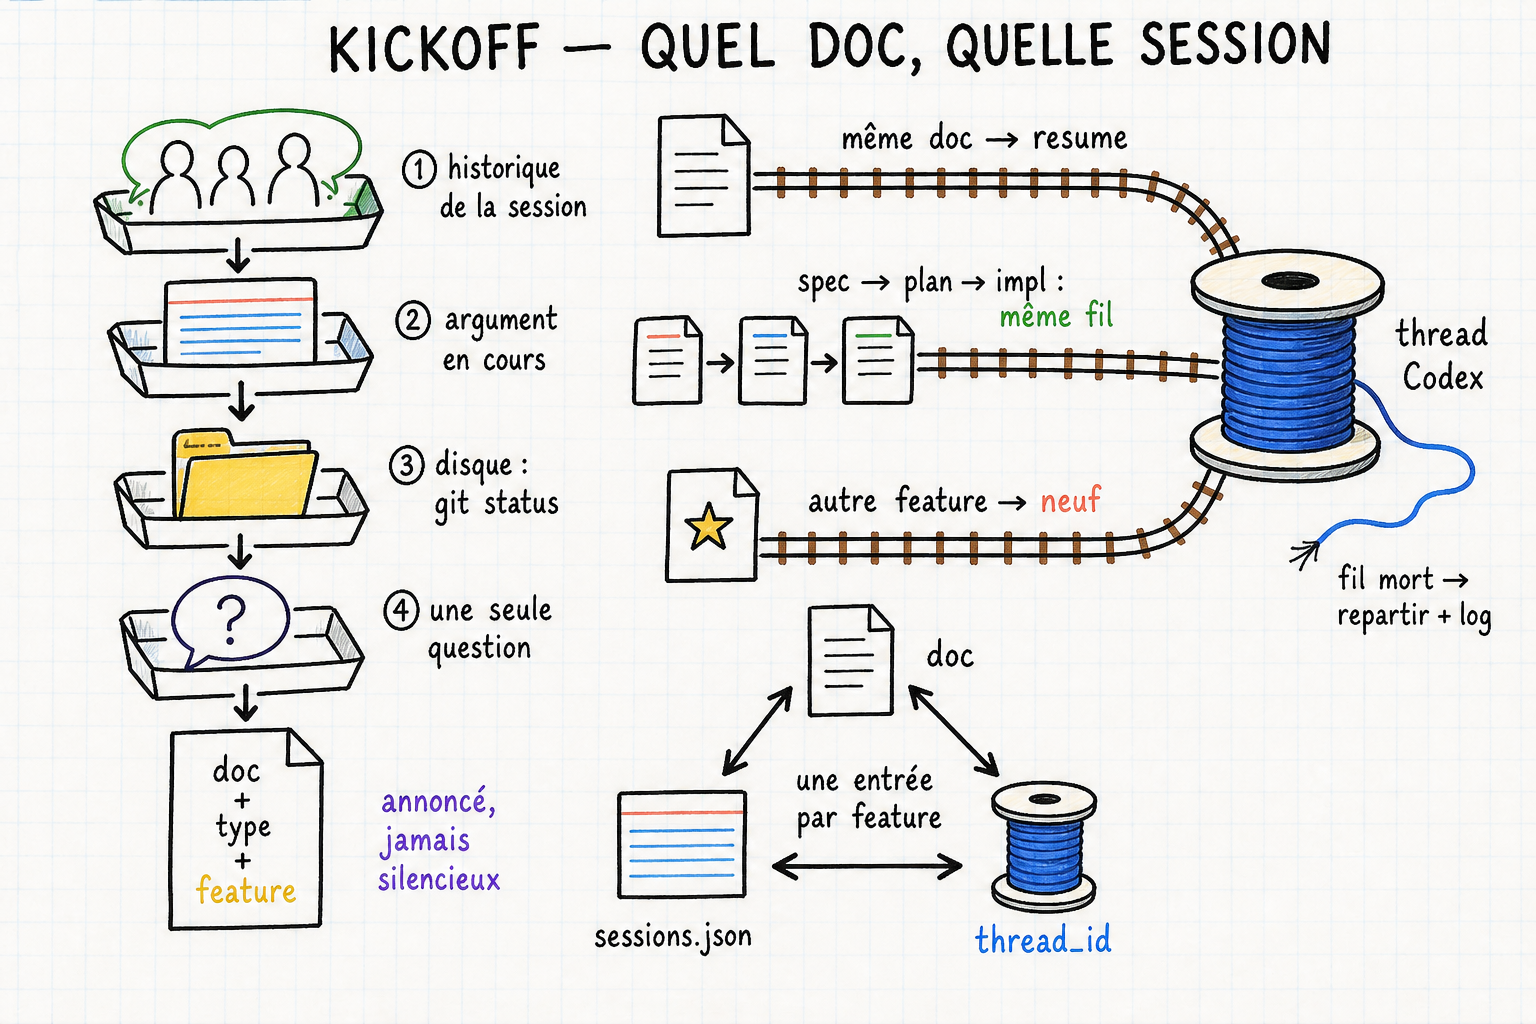
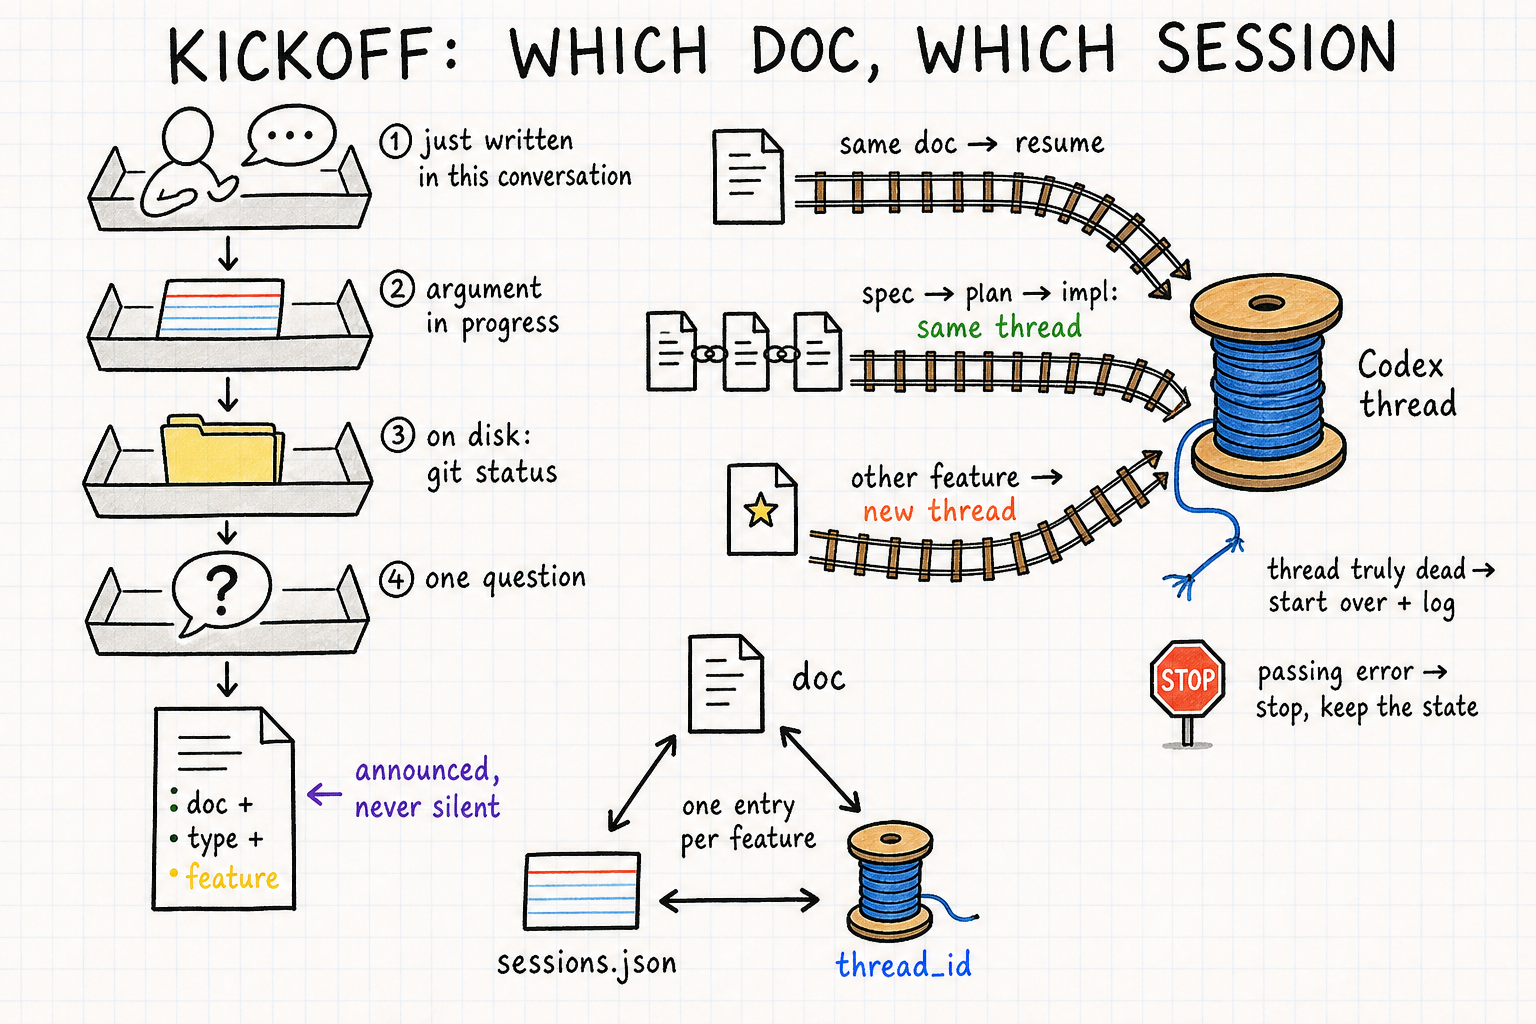
docs: English README, French README-fr, plates regenerated in English to match the current skill
- README.md is now English; the French walkthrough moves to README-fr.md.
- All four diagrams redrawn (gpt-image-2, same hand from the architecture
  plate) with English lettering, reflecting the 2026-09-02 rules: state
  written only after a successful round, transient errors keep the state,
  doc hash check before resubmission, test evidence supplied by Claude,
  10-min inactivity guard with 45-min cap, premise check and
  production-projection rule in the ratchet.
- Scenarios (*-body.txt) rewritten in English; STYLE.txt added so the
  plates can be regenerated from this repo alone.

diff --git a/README.md b/README.md
@@ -1,71 +1,65 @@
 # claude-skills
 
-Skills Claude Code personnelles. Une seule pour l'instant : **codex-review**.
+Personal Claude Code skills. One so far: **codex-review**. Version française : [README-fr.md](README-fr.md).
 
-## codex-review — la boucle de review adversariale
+## codex-review — the adversarial review loop
 
-Deux modèles, un document, une dispute bornée. Claude écrit (spec, plan, puis code) et arbitre ; OpenAI Codex critique en lecture seule, round après round, jusqu'à `VERDICT: APPROVED` ou le plafond de rounds. La conversation avec le critique survit d'une invocation à l'autre : on corrige le document demain, on relance, le reviewer reprend avec toutes ses critiques en tête au lieu de tout redécouvrir.
+Two models, one document, a bounded argument. Claude writes (spec, plan, then code) and referees; OpenAI Codex critiques read-only, round after round, until `VERDICT: APPROVED` or the round cap. The conversation with the critic survives across invocations: fix the document tomorrow, run again, and the reviewer picks up with all its earlier critiques in mind instead of rediscovering everything.
 
-La skill s'utilise après un brainstorming/plan superpowers (`/codex-review` sans argument trouve le document tout seul) et couvre trois étages d'une même feature : la **spec**, le **plan**, puis l'**implémentation** (le diff relu contre le plan, idéalement avant commit).
+The skill runs after a superpowers brainstorming/plan (`/codex-review` with no argument finds the document by itself) and covers three stages of the same feature: the **spec**, the **plan**, then the **implementation** (the diff reviewed against the plan, ideally before commit).
 
-Quatre schémas racontent le fonctionnement, du survol au détail.
+Four diagrams tell the story, from the overview down to the details.
 
-### Niveau 1 — l'architecture
+### Level 1 — the architecture
 
-![Architecture de la skill](codex-review/architecture.png)
+![Architecture of the skill](codex-review/architecture.png)
 
-Tout y est, de gauche à droite :
+Everything is there, left to right:
 
-- **La colonne des trois étages.** Spec, plan, implémentation (le diff) — une feature descend ces trois marches, et l'annotation le dit : *une feature, une session*. Le même fil Codex accompagne les trois étages, si bien que le reviewer qui a attaqué la spec puis le plan finit par juger le code en connaissance de cause.
-- **La boucle centrale.** Claude (auteur et arbitre) envoie *doc + prompt* ; Codex (un terminal, critique en lecture seule) renvoie un *VERDICT* : `APPROVED` ou `REVISE`. Le compteur *MAX ROUNDS* borne la dispute — elle se termine toujours.
-- **Le cliquet de simplicité** sur le chemin du retour : chaque correction acceptée passe ce filtre avant de toucher le document (détaillé planche 4).
-- **L'état persistant**, à droite : `sessions.json` (le fil Codex de chaque feature, relié par son *thread_id*), `review-log.md` (tout le débat, verbatim) et `stream.jsonl` (la progression en direct pendant qu'un round tourne).
-- **La signature humaine**, en bas : rien ne s'implémente sans le oui final de l'utilisateur.
+- **The column of three stages.** Spec, plan, implementation (the diff). One feature walks down these three steps, and the annotation says it: *one feature, one session*. The same Codex thread follows all three stages, so the reviewer that attacked the spec and then the plan ends up judging the code with full context.
+- **The central loop.** Claude (author and referee) sends *doc + prompt*; Codex (a terminal, read-only critic) returns a *VERDICT*: `APPROVED` or `REVISE`. The *MAX ROUNDS* counter bounds the argument. It always ends.
+- **The simplicity ratchet** on the way back: every accepted fix passes this filter before touching the document (detailed in plate 4).
+- **The persistent state**, on the right: `sessions.json` (each feature's Codex thread, linked by its *thread_id* and *written only after a successful round*, never at launch), `review-log.md` (the whole debate, verbatim) and `stream.jsonl` (live progress while a round runs).
+- **The human sign-off**, at the bottom: nothing gets implemented without the user's final yes.
 
-### Niveau 2a — le kickoff : quel doc, quelle session
+### Level 2a — the kickoff: which doc, which session
 
-![Kickoff — choix du doc et de la session](codex-review/architecture-kickoff.png)
+![Kickoff — choosing the doc and the session](codex-review/architecture-kickoff.png)
 
-Ce qui se passe avant le premier round.
+What happens before the first round.
 
-À gauche, **l'entonnoir à quatre plateaux** : invoquée sans argument, la skill devine le document en essayant quatre sources dans l'ordre — ① le document qu'on vient d'écrire dans la conversation, ② un argument en cours dans `sessions.json`, ③ le disque (`git status`, le doc le plus récent), ④ sinon une seule question. Le résultat (*doc + type + feature*) est toujours annoncé, jamais silencieux : l'utilisateur peut corriger avant de brûler un round.
+On the left, **the four-tray funnel**: invoked with no argument, the skill guesses the document by trying four sources in order: ① the document just written in the conversation, ② an argument in progress in `sessions.json`, ③ the disk (`git status`, the most recent doc), ④ otherwise a single question. The result (*doc + type + feature*) is always announced, never silent: the user can correct it before a round is spent.
 
-À droite, **les trois rails vers la bobine** (le fil Codex) : même doc → on reprend le fil ; spec → plan → impl d'une même feature → toujours le même fil ; autre feature → fil neuf. Le fil cassé se traite avec prudence : seul un fil définitivement mort justifie de repartir (une erreur passagère d'authentification ne détruit jamais une session valide — nuance ajoutée après la review, le schéma simplifie).
+On the right, **three tracks into the spool** (the Codex thread): same doc → resume the thread; spec → plan → impl of one feature → still the same thread; another feature → a new thread. A broken thread is handled with care: only a thread that is *truly dead* justifies starting over (logged), while a *passing error* (auth, model, timeout) stops the run and leaves the state untouched.
 
-En bas, **le triangle de couplage** : le document, `sessions.json` et le *thread_id* se tiennent — une entrée par feature, pas de doublon.
+At the bottom, **the coupling triangle**: the document, `sessions.json` and the *thread_id* hold together. One entry per feature, no duplicates.
 
-### Niveau 2b — un round, concrètement
+### Level 2b — one round, up close
 
-![Un round, concrètement](codex-review/architecture-round.png)
+![One round, up close](codex-review/architecture-round.png)
 
-L'anatomie d'un aller-retour.
+The anatomy of one round trip.
 
-1. **La consigne.** Claude écrit le prompt de review, qui impose la discipline des critiques : chaque trouvaille est étiquetée *ça casse* (avec le scénario de casse) ou *trop compliqué* — chaque critique doit prouver son coût.
-2. **L'enclos en lecture seule.** Codex travaille enfermé : son shell et ses accès fichiers ne peuvent rien écrire (*jamais d'écriture* — garantie qui couvre les outils intégrés de Codex ; les intégrations externes type MCP sont vérifiées à part au kickoff).
-3. **Le ticker.** L'activité sort en continu sur `stream.jsonl` — démarré, il lit les fichiers, terminé — qu'on regarde toutes les 30-60 s, avec un garde d'inactivité (10 minutes sans événement) et un plafond dur de 45 minutes : un round qui pend échoue bruyamment au lieu de traîner en silence.
-4. **Le verdict.** `APPROVED (validé)` ou `REVISE (à revoir)`. Sur REVISE, Claude corrige et repart — même conversation. Tout le débat s'accumule dans `review-log.md`, en un fichier par feature.
+1. **The brief.** Claude writes the review prompt, which imposes the critique discipline: every finding is tagged *it breaks* (with the failure scenario) or *too complicated*. Every critique must prove its cost. Before the brief leaves, a stamp asks *doc really changed? hash check*: the document's hash is compared with the previous round's, and an unchanged document is never resubmitted (two real rounds were once burnt that way after a failed edit script).
+2. **The read-only pen.** Codex works locked in: its shell and file access can write nothing, temp directories included. That is also why it cannot run the test suite itself. In implementation mode the *test results come from Claude*, pasted into the prompt.
+3. **The ticker.** Activity streams continuously to `stream.jsonl` (started, reading files, done), watched every 30-60 s. The guard is an inactivity guard, not a wall clock: *10 minutes of silence* on the stream stops the round, with a hard cap of 45 minutes. Real first rounds on a large document take 14 to 18 minutes.
+4. **The verdict.** `APPROVED (accepted)` or `REVISE (fix and resubmit)`. On REVISE, Claude fixes and goes again, same conversation. The whole debate accumulates in `review-log.md`, one file per feature.
 
-### Niveau 2c — le cliquet de simplicité
+### Level 2c — the simplicity ratchet
 
-![Le cliquet de simplicité](codex-review/architecture-cliquet.png)
+![The simplicity ratchet](codex-review/architecture-cliquet.png)
 
-Le garde-fou contre la sur-ingénierie, appliqué par Claude à chaque REVISE.
+The guard against over-engineering, applied by Claude on every REVISE.
 
-Les critiques arrivent sur le convoyeur et chaque correction candidate passe **deux portes** : *changement minimal ?* (est-ce la plus petite modification qui résout la casse ?) et *système le plus simple ?* (la correction laisse-t-elle la machine avec autant ou moins de rouages ?). La balance en dessous fixe la règle d'or : *ajouter un rouage exige une preuve* — pas de mécanisme spéculatif.
+Critiques arrive on the conveyor. First stop, the magnifying glass: *is the claim true? check the code first*. A concretely worded critique can still be wrong, and a disproven premise is rejected with the disproof logged. Each candidate fix then passes **two doors**: *smallest change?* (is this the smallest modification that resolves the failure?) and *simplest system?* (does the fix leave the machine with as many or fewer moving parts?). The scale below sets the rule: *adding a gear needs proof*. No speculative mechanism.
 
-La pancarte borne le filtre lui-même : *une vraie casse est toujours corrigée* — le cliquet gouverne la forme de la correction, jamais l'existence d'un vrai bug. (Avec une nuance apprise en conditions réelles : la prémisse se vérifie d'abord — une critique formulée concrètement peut être fausse, et se rejette alors preuve à l'appui.)
+The spyglass on the horizon fixes the yardstick: *judge it in tomorrow's production, not today's numbers*. During development the affected population is empty by construction, so "zero users hit this today" is never a reason to reject or shrink a fix. The review protects the state that will ship.
 
-La roue à cliquet ne tourne que dans un sens : *une correction validée ne se rejuge pas*. Et les trois sorties tuent la boucle infinie : *rejeté une fois = rejeté* (sauf preuve nouvelle), *couper les cheveux en quatre : noté, pas bloquant*, et *plus rien ne casse → on s'arrête* — on présente ce qui reste plutôt que de polir sans fin.
+The hanging sign bounds the filter itself: *a real break is always fixed*. The ratchet governs the shape of the fix, never whether a verified bug gets fixed. The ratchet wheel turns one way only: *a validated fix is not re-judged*. And the three exits kill the infinite loop: *rejected once = rejected* (unless new proof), *hair-splitting: noted, not blocking*, and *nothing breaks → we stop*. What is left is shown rather than polished forever. Every rejection is written down.
 
-## Fidélité des schémas
+## Regenerating the plates
 
-Les planches sont dessinées par `gpt-image-2` (chaque `architecture-*-body.txt` contient le scénario exact pour regénérer). Elles datent d'avant le durcissement issu de la self-review adversariale (5 rounds, voir `.codex-review/codex-review-skill-review-log.md`) ; trois simplifications à connaître :
-
-- « fil mort → repartir » : seul un fil **définitivement** mort repart de zéro ; une erreur transitoire arrête sans toucher l'état.
-- « jamais d'écriture » : garantie du bac à sable shell/fichiers de Codex ; les intégrations externes (MCP) sont signalées à part au kickoff.
-- L'état (`sessions.json`) ne s'écrit qu'après un round réussi, jamais dès le démarrage du fil.
-- « plafond 10 min » : remplacé le 2026-09-02 par un garde d'inactivité (10 min sans événement dans le stream) et un plafond dur de 45 min — les rounds 1 réels sur un gros doc durent 14 à 18 min.
-- Avant chaque resoumission, la skill vérifie que le doc a réellement changé (`doc_sha256` dans `sessions.json`) ; en mode impl, Claude fournit les résultats de tests à Codex, dont le bac à sable interdit toute écriture, `/tmp` compris.
+The plates are drawn by `gpt-image-2` (OpenRouter, `POST /api/v1/images`, aspect ratio 3:2, 2K). Each `codex-review/architecture*-body.txt` holds the exact scenario; append `codex-review/STYLE.txt` to it to get the full prompt. Generate the architecture plate first, then pass it as `input_references` for the three others so the same hand draws all four. Check the lettering on every plate: about one plate in four drops or misspells a label and needs a second run. Cost is around $0.05 to $0.18 per plate.
 
 ## Installation
 
@@ -74,4 +68,4 @@ git clone git@github.com:darksip/claude-skills.git
 ln -s "$PWD/claude-skills/codex-review" ~/.claude/skills/codex-review
 ```
 
-Usage : `/codex-review` (inférence automatique), ou avec arguments — `feature=<slug>`, `type=spec|plan|impl`, `rounds=<n>`, `reasoning=low|medium|high|xhigh|max`, `fresh=1`. Prérequis : `codex` CLI ≥ 0.130, authentifié (`codex login`). Le contrat complet est dans [codex-review/SKILL.md](codex-review/SKILL.md).
+Usage: `/codex-review` (automatic inference), or with arguments: `feature=<slug>`, `type=spec|plan|impl`, `rounds=<n>`, `reasoning=low|medium|high|xhigh|max`, `fresh=1`. Prerequisite: `codex` CLI ≥ 0.130, authenticated (`codex login`). The full contract is in [codex-review/SKILL.md](codex-review/SKILL.md).

diff --git a/README-fr.md b/README-fr.md
@@ -1,0 +1,71 @@
+# claude-skills
+
+Skills Claude Code personnelles. Une seule pour l'instant : **codex-review**. English version: [README.md](README.md).
+
+## codex-review — la boucle de review adversariale
+
+Deux modèles, un document, une dispute bornée. Claude écrit (spec, plan, puis code) et arbitre ; OpenAI Codex critique en lecture seule, round après round, jusqu'à `VERDICT: APPROVED` ou le plafond de rounds. La conversation avec le critique survit d'une invocation à l'autre : on corrige le document demain, on relance, le reviewer reprend avec toutes ses critiques en tête au lieu de tout redécouvrir.
+
+La skill s'utilise après un brainstorming/plan superpowers (`/codex-review` sans argument trouve le document tout seul) et couvre trois étages d'une même feature : la **spec**, le **plan**, puis l'**implémentation** (le diff relu contre le plan, idéalement avant commit).
+
+Quatre schémas racontent le fonctionnement, du survol au détail. Ils sont lettrés en anglais.
+
+### Niveau 1 — l'architecture
+
+![Architecture de la skill](codex-review/architecture.png)
+
+Tout y est, de gauche à droite :
+
+- **La colonne des trois étages.** Spec, plan, implémentation (le diff). Une feature descend ces trois marches, et l'annotation le dit : *one feature, one session*. Le même fil Codex accompagne les trois étages, si bien que le reviewer qui a attaqué la spec puis le plan finit par juger le code en connaissance de cause.
+- **La boucle centrale.** Claude (auteur et arbitre) envoie *doc + prompt* ; Codex (un terminal, critique en lecture seule) renvoie un *VERDICT* : `APPROVED` ou `REVISE`. Le compteur *MAX ROUNDS* borne la dispute. Elle se termine toujours.
+- **Le cliquet de simplicité** sur le chemin du retour : chaque correction acceptée passe ce filtre avant de toucher le document (détaillé planche 4).
+- **L'état persistant**, à droite : `sessions.json` (le fil Codex de chaque feature, relié par son *thread_id* et *écrit seulement après un round réussi*, jamais au lancement), `review-log.md` (tout le débat, verbatim) et `stream.jsonl` (la progression en direct pendant qu'un round tourne).
+- **La signature humaine**, en bas : rien ne s'implémente sans le oui final de l'utilisateur.
+
+### Niveau 2a — le kickoff : quel doc, quelle session
+
+![Kickoff — choix du doc et de la session](codex-review/architecture-kickoff.png)
+
+Ce qui se passe avant le premier round.
+
+À gauche, **l'entonnoir à quatre plateaux** : invoquée sans argument, la skill devine le document en essayant quatre sources dans l'ordre : ① le document qu'on vient d'écrire dans la conversation, ② un argument en cours dans `sessions.json`, ③ le disque (`git status`, le doc le plus récent), ④ sinon une seule question. Le résultat (*doc + type + feature*) est toujours annoncé, jamais silencieux : l'utilisateur peut corriger avant de brûler un round.
+
+À droite, **les trois rails vers la bobine** (le fil Codex) : même doc → on reprend le fil ; spec → plan → impl d'une même feature → toujours le même fil ; autre feature → fil neuf. Le fil cassé se traite avec prudence : seul un fil *définitivement mort* justifie de repartir (consigné dans le log) ; une *erreur passagère* (authentification, modèle, timeout) arrête le run sans toucher l'état.
+
+En bas, **le triangle de couplage** : le document, `sessions.json` et le *thread_id* se tiennent. Une entrée par feature, pas de doublon.
+
+### Niveau 2b — un round, concrètement
+
+![Un round, concrètement](codex-review/architecture-round.png)
+
+L'anatomie d'un aller-retour.
+
+1. **La consigne.** Claude écrit le prompt de review, qui impose la discipline des critiques : chaque trouvaille est étiquetée *ça casse* (avec le scénario de casse) ou *trop compliqué*. Chaque critique doit prouver son coût. Avant que la consigne parte, un tampon demande *le doc a-t-il vraiment changé ?* : le hash du document est comparé à celui du round précédent, et un document inchangé n'est jamais resoumis (deux rounds réels ont été brûlés ainsi après l'échec d'un script d'édition).
+2. **L'enclos en lecture seule.** Codex travaille enfermé : son shell et ses accès fichiers ne peuvent rien écrire, répertoires temporaires compris. C'est aussi pour cela qu'il ne peut pas lancer la suite de tests lui-même. En mode implémentation, *les résultats de tests viennent de Claude*, collés dans le prompt.
+3. **Le ticker.** L'activité sort en continu sur `stream.jsonl` (démarré, il lit les fichiers, terminé), regardée toutes les 30-60 s. Le garde est un garde d'inactivité, pas une horloge murale : *10 minutes de silence* sur le stream arrêtent le round, avec un plafond dur de 45 minutes. Les premiers rounds réels sur un gros document durent 14 à 18 minutes.
+4. **Le verdict.** `APPROVED (accepté)` ou `REVISE (corriger et resoumettre)`. Sur REVISE, Claude corrige et repart, même conversation. Tout le débat s'accumule dans `review-log.md`, un fichier par feature.
+
+### Niveau 2c — le cliquet de simplicité
+
+![Le cliquet de simplicité](codex-review/architecture-cliquet.png)
+
+Le garde-fou contre la sur-ingénierie, appliqué par Claude à chaque REVISE.
+
+Les critiques arrivent sur le convoyeur. Premier arrêt, la loupe : *la critique est-elle vraie ? vérifier le code d'abord*. Une critique formulée concrètement peut être fausse, et une prémisse démontée est rejetée preuve à l'appui. Chaque correction candidate passe ensuite **deux portes** : *changement minimal ?* (est-ce la plus petite modification qui résout la casse ?) et *système le plus simple ?* (la correction laisse-t-elle la machine avec autant ou moins de rouages ?). La balance en dessous fixe la règle : *ajouter un rouage exige une preuve*. Pas de mécanisme spéculatif.
+
+La longue-vue sur l'horizon fixe l'étalon : *juger dans la production de demain, pas avec les chiffres d'aujourd'hui*. En phase de développement la population touchée est vide par construction, donc « zéro utilisateur concerné aujourd'hui » n'est jamais une raison de rejeter ou de réduire un fix. La review protège l'état qui sera livré.
+
+La pancarte borne le filtre lui-même : *une vraie casse est toujours corrigée*. Le cliquet gouverne la forme de la correction, jamais l'existence d'un vrai bug. La roue à cliquet ne tourne que dans un sens : *une correction validée ne se rejuge pas*. Et les trois sorties tuent la boucle infinie : *rejeté une fois = rejeté* (sauf preuve nouvelle), *couper les cheveux en quatre : noté, pas bloquant*, et *plus rien ne casse → on s'arrête*. On présente ce qui reste plutôt que de polir sans fin. Chaque refus est écrit.
+
+## Regénérer les planches
+
+Les planches sont dessinées par `gpt-image-2` (OpenRouter, `POST /api/v1/images`, ratio 3:2, 2K). Chaque `codex-review/architecture*-body.txt` contient le scénario exact ; on lui concatène `codex-review/STYLE.txt` pour obtenir le prompt complet. Générer la planche architecture d'abord, puis la passer en `input_references` pour les trois autres afin que la même main dessine les quatre. Vérifier le lettrage de chaque planche : environ une sur quatre oublie ou déforme un libellé et demande un second tirage. Coût de $0,05 à $0,18 par planche.
+
+## Installation
+
+```bash
+git clone git@github.com:darksip/claude-skills.git
+ln -s "$PWD/claude-skills/codex-review" ~/.claude/skills/codex-review
+```
+
+Usage : `/codex-review` (inférence automatique), ou avec arguments : `feature=<slug>`, `type=spec|plan|impl`, `rounds=<n>`, `reasoning=low|medium|high|xhigh|max`, `fresh=1`. Prérequis : `codex` CLI ≥ 0.130, authentifié (`codex login`). Le contrat complet est dans [codex-review/SKILL.md](codex-review/SKILL.md).
